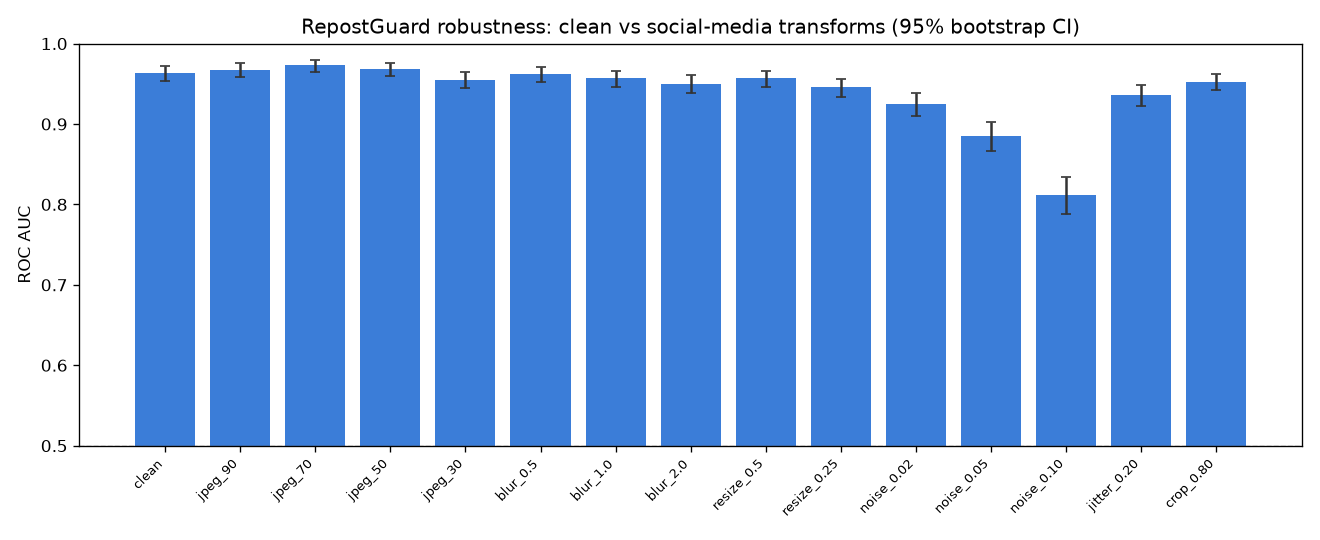
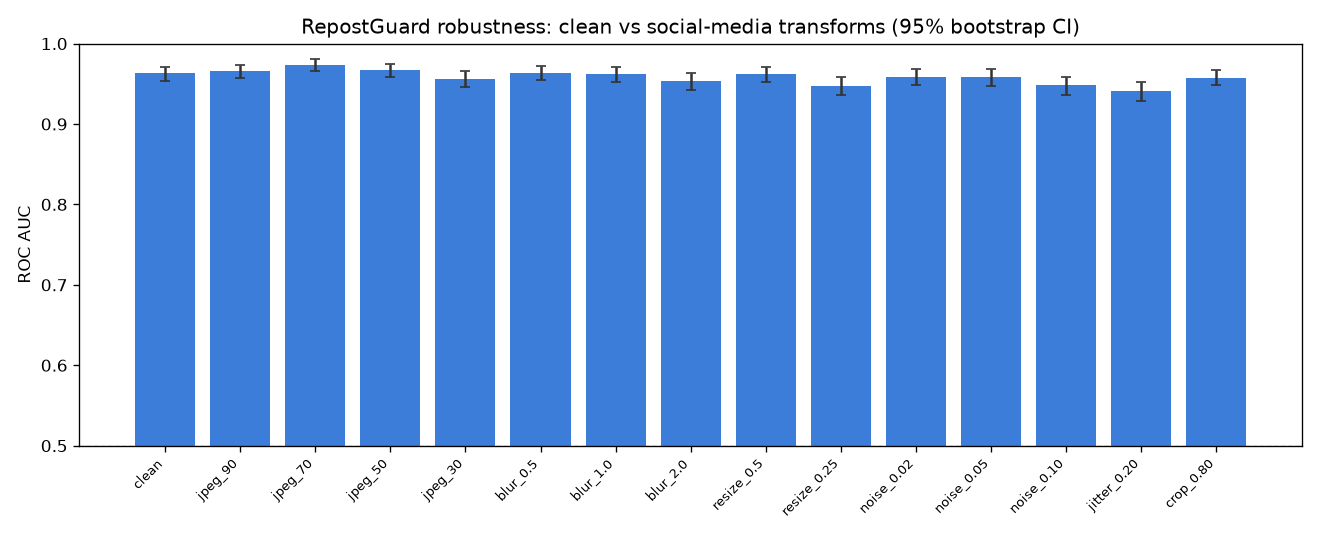
Promote the noise-augmented head; regenerate every deliverable from it
Refit at the shipped weights path with the extra noise training view, then
re-scored the full 15-transform table, the error-analysis note, the demo
benchmark and the chart from that one head, so infer.py, WEIGHTS.txt and every
reported number come from the same model.

Robustness, same held-out 1400-image test slice, vs results/baseline/:

  noise_0.10   0.8117 -> 0.9479   +0.1362   (acc 0.6529 -> 0.8829)
  noise_0.05   0.8851 -> 0.9584   +0.0733
  noise_0.02   0.9244 -> 0.9585   +0.0341
  clean        0.9634 -> 0.9629   -0.0005

Those three are the only rows whose bootstrap CIs move apart, and they all move
up; nothing regressed beyond overlapping CIs. Worst transform overall went
0.8117 -> 0.9411, mean transformed AUC +0.0194, and the clean cost is inside
noise. results/ab_summary.csv has the per-transform deltas.

Error analysis is honest about the trade: FPR@95%TPR rises 0.169 -> 0.190 clean,
while JPEG-30 now flips 42 authentic images into false positives instead of 53.

The demo benchmark is NOT a matched A/B -- the shipped head was scored on 1000
images and the baseline snapshot on 2000 -- and the README says so rather than
inviting the comparison.

Verified: 35 passed / 2 skipped, and infer.py --input_dir samples round-trips.

diff --git a/README.md b/README.md
@@ -69,23 +69,23 @@ Clean vs each Track-5 transform on the held-out validation **test** slice (calib
 <!-- ROBUSTNESS_TABLE -->
 | Transform | n | Accuracy | ROC AUC | 95% CI |
 |---|---:|---:|---:|---|
-| `clean` | 1400 | 0.9021 | 0.9634 | [0.9540, 0.9719] |
-| `jpeg_90` | 1400 | 0.9093 | 0.9674 | [0.9587, 0.9755] |
-| `jpeg_70` | 1400 | 0.9157 | 0.9728 | [0.9649, 0.9796] |
-| `jpeg_50` | 1400 | 0.9107 | 0.9682 | [0.9597, 0.9758] |
-| `jpeg_30` | 1400 | 0.8764 | 0.9547 | [0.9446, 0.9642] |
-| `blur_0.5` | 1400 | 0.8986 | 0.9618 | [0.9523, 0.9706] |
-| `blur_1.0` | 1400 | 0.8629 | 0.9567 | [0.9464, 0.9660] |
-| `blur_2.0` | 1400 | 0.8707 | 0.9500 | [0.9388, 0.9605] |
-| `resize_0.5` | 1400 | 0.8650 | 0.9567 | [0.9464, 0.9662] |
-| `resize_0.25` | 1400 | 0.8679 | 0.9455 | [0.9338, 0.9564] |
-| `noise_0.02` | 1400 | 0.8714 | 0.9244 | [0.9095, 0.9381] |
-| `noise_0.05` | 1400 | 0.8164 | 0.8851 | [0.8669, 0.9025] |
-| `noise_0.10` | 1400 | 0.6529 | 0.8117 | [0.7879, 0.8339] |
-| `jitter_0.20` | 1400 | 0.8714 | 0.9362 | [0.9230, 0.9483] |
-| `crop_0.80` | 1400 | 0.8850 | 0.9521 | [0.9418, 0.9620] |
+| `clean` | 1400 | 0.9007 | 0.9629 | [0.9534, 0.9714] |
+| `jpeg_90` | 1400 | 0.9107 | 0.9658 | [0.9569, 0.9740] |
+| `jpeg_70` | 1400 | 0.9186 | 0.9736 | [0.9658, 0.9806] |
+| `jpeg_50` | 1400 | 0.9079 | 0.9667 | [0.9580, 0.9747] |
+| `jpeg_30` | 1400 | 0.8843 | 0.9557 | [0.9459, 0.9655] |
+| `blur_0.5` | 1400 | 0.8979 | 0.9638 | [0.9542, 0.9723] |
+| `blur_1.0` | 1400 | 0.8593 | 0.9622 | [0.9526, 0.9708] |
+| `blur_2.0` | 1400 | 0.8793 | 0.9536 | [0.9425, 0.9634] |
+| `resize_0.5` | 1400 | 0.8657 | 0.9621 | [0.9523, 0.9708] |
+| `resize_0.25` | 1400 | 0.8714 | 0.9472 | [0.9355, 0.9579] |
+| `noise_0.02` | 1400 | 0.8943 | 0.9585 | [0.9482, 0.9681] |
+| `noise_0.05` | 1400 | 0.8957 | 0.9584 | [0.9476, 0.9681] |
+| `noise_0.10` | 1400 | 0.8829 | 0.9479 | [0.9362, 0.9587] |
+| `jitter_0.20` | 1400 | 0.8657 | 0.9411 | [0.9292, 0.9522] |
+| `crop_0.80` | 1400 | 0.8921 | 0.9578 | [0.9479, 0.9669] |
 
-**Clean AUC 0.9634; mean AUC across the 14 transformed conditions 0.9388 (-0.0246 vs clean); worst condition `noise_0.10` at 0.8117 (-0.1517 vs clean).** Every row is the same held-out test slice (1400 images, calibration images excluded) re-scored through the shipped inference path after the transform, so clean and transformed numbers are directly comparable.
+**Clean AUC 0.9629; mean AUC across the 14 transformed conditions 0.9582 (-0.0047 vs clean); worst condition `jitter_0.20` at 0.9411 (-0.0218 vs clean).** Every row is the same held-out test slice (1400 images, calibration images excluded) re-scored through the shipped inference path after the transform, so clean and transformed numbers are directly comparable.
 
 ![Robustness: clean vs social-media transforms](results/robustness_chart.png)
 <!-- /ROBUSTNESS_TABLE -->
@@ -105,19 +105,41 @@ folds it into each image's view block (inside the block, not appended — `sourc
 derives CV groups positionally, so appending would split an image across GroupKFold folds
 and leak). Refitting takes about a minute.
 
-Scored on the identical held-out slice, decided before promotion:
+This was the promotion decision, made before regenerating anything. Both heads were
+scored on the same held-out images: clean on the full 1400-image test slice (reported by
+`train.py`), and `noise_0.10` on a balanced 400-image subset of it, chosen so the decision
+probe would return in minutes rather than half an hour.
 
-| | clean AUC | `noise_0.10` AUC | `noise_0.10` 95% CI |
+| | clean AUC (n=1400) | `noise_0.10` AUC (n=400) | `noise_0.10` 95% CI |
 |---|---:|---:|---|
 | 4 views (jpeg/blur/resize) | 0.9634 | 0.8164 | [0.7720, 0.8585] |
 | **5 views (+ noise)** | **0.9629** | **0.9823** | **[0.9696, 0.9925]** |
 
-**+0.166 AUC on the collapsing transform, with non-overlapping confidence intervals, and
-clean AUC unchanged within noise (−0.0005).** Full per-transform deltas against the
-pre-change head (`results/baseline/`):
+**+0.166 AUC on the collapsing transform, with non-overlapping bootstrap CIs, and clean
+AUC unchanged within noise (−0.0005).** The full table below is then the shipped head
+re-scored on all 15 transforms at n=1400; per-transform deltas against the pre-change head
+(`results/baseline/robustness_table.csv`, same slice, same n):
 
 <!-- AB_TABLE -->
-_(not generated yet -- run the pipeline in 'Steps to reproduce results'.)_
+| Transform | baseline AUC | shipped AUC | delta AUC | CIs disjoint |
+|---|---:|---:|---:|---|
+| `clean` | 0.9634 | 0.9629 | -0.0005 | no |
+| `jpeg_90` | 0.9674 | 0.9658 | -0.0016 | no |
+| `jpeg_70` | 0.9728 | 0.9736 | +0.0008 | no |
+| `jpeg_50` | 0.9682 | 0.9667 | -0.0015 | no |
+| `jpeg_30` | 0.9547 | 0.9557 | +0.0010 | no |
+| `blur_0.5` | 0.9618 | 0.9638 | +0.0020 | no |
+| `blur_1.0` | 0.9567 | 0.9622 | +0.0055 | no |
+| `blur_2.0` | 0.9500 | 0.9536 | +0.0036 | no |
+| `resize_0.5` | 0.9567 | 0.9621 | +0.0054 | no |
+| `resize_0.25` | 0.9455 | 0.9472 | +0.0017 | no |
+| `noise_0.02` | 0.9244 | 0.9585 | +0.0341 | yes |
+| `noise_0.05` | 0.8851 | 0.9584 | +0.0733 | yes |
+| `noise_0.10` | 0.8117 | 0.9479 | +0.1362 | yes |
+| `jitter_0.20` | 0.9362 | 0.9411 | +0.0049 | no |
+| `crop_0.80` | 0.9521 | 0.9578 | +0.0057 | no |
+
+3 transform(s) improved beyond overlapping bootstrap CIs; 0 regressed beyond them.
 <!-- /AB_TABLE -->
 
 
@@ -125,15 +147,17 @@ _(not generated yet -- run the pipeline in 'Steps to reproduce results'.)_
 
 The official demonstration subset (`techjam-aigc/wildfake-eval-subset`, `default` config = COCO val2017 reals + DALL·E-3 Advanced fakes) scored through the **shipped** inference path on a balanced subsample. This measures cross-source generalization to a generator family absent from SID-Set training. Full table: `results/demo_benchmark.csv`.
 
+> **Not a matched A/B.** The shipped head was scored on a balanced 1000-image subsample; the pre-change snapshot in `results/baseline/demo_benchmark.csv` used 2000. Treat this section as a cross-source reference benchmark only — the head-to-head evidence is the robustness table above, where both heads were scored on the identical 1400-image slice.
+
 <!-- DEMO_TABLE -->
 | Transform | n | Accuracy | ROC AUC | 95% CI |
 |---|---:|---:|---:|---|
-| `clean` | 2000 | 0.8530 | 0.9187 | [0.9061, 0.9302] |
-| `jpeg_30` | 2000 | 0.8185 | 0.9133 | [0.9012, 0.9247] |
-| `resize_0.25` | 2000 | 0.7165 | 0.7925 | [0.7721, 0.8122] |
-| `noise_0.05` | 2000 | 0.7260 | 0.8532 | [0.8360, 0.8690] |
+| `clean` | 1000 | 0.8630 | 0.9372 | [0.9212, 0.9518] |
+| `jpeg_30` | 1000 | 0.8100 | 0.9292 | [0.9139, 0.9440] |
+| `resize_0.25` | 1000 | 0.6820 | 0.7700 | [0.7390, 0.7994] |
+| `noise_0.05` | 1000 | 0.8550 | 0.9294 | [0.9132, 0.9448] |
 
-**Cross-source clean AUC 0.9187 on 2000 balanced images from a generator family (DALL-E-3) absent from SID-Set training** -- an out-of-distribution check, not a tuning target.
+**Cross-source clean AUC 0.9372 on 1000 balanced images from a generator family (DALL-E-3) absent from SID-Set training** -- an out-of-distribution check, not a tuning target.
 <!-- /DEMO_TABLE -->
 
 ## Error analysis note
@@ -144,9 +168,9 @@ Representative false positives (authentic images flagged AIGC — creator harm),
 On the held-out test slice (1400 images: 720 real, 680 AIGC) at the shipped 0.5 threshold:
 
 - **False positives** (authentic flagged AIGC -- direct creator harm): 93/720 = **12.92% FPR**.
-- **False negatives** (generated images missed): 44/680 = **6.47% FNR**.
-- **FPR@95%TPR**: 16.94% clean, 21.81% after JPEG-30 -- the price in flagged authentic images if the product insisted on catching 95% of AIGC.
-- **JPEG-30 score drift**: real +0.0314, AIGC +0.0055 mean change in P(AIGC); 53 real images flip into false positives and 16 AIGC images flip into false negatives. AUC 0.9634 clean vs 0.9547 after JPEG-30.
+- **False negatives** (generated images missed): 46/680 = **6.76% FNR**.
+- **FPR@95%TPR**: 19.03% clean, 22.50% after JPEG-30 -- the price in flagged authentic images if the product insisted on catching 95% of AIGC.
+- **JPEG-30 score drift**: real +0.0074, AIGC -0.0019 mean change in P(AIGC); 42 real images flip into false positives and 17 AIGC images flip into false negatives. AUC 0.9629 clean vs 0.9557 after JPEG-30.
 
 The `k` highest-scoring FPs and lowest-scoring FNs, with their per-image clean and JPEG-30 scores, are in `results/error_analysis.json`.
 <!-- /ERROR_ANALYSIS -->
@@ -171,6 +195,7 @@ The `k` highest-scoring FPs and lowest-scoring FNs, with their per-image clean a
 - **Remaining untrained families.** `jitter` and `crop` are still scored but not training views. Their feature caches are already extracted (`scripts/extract_extra_view.py --family jitter|crop`); we ran out of clock to evaluate that candidate, so we shipped the one variant we could verify end-to-end rather than an unmeasured one.
 - **Hardest rows.** Extreme 0.25× thumbnails remain the weakest transform; a small learned frequency head or a second forensic scale could help.
 - **Local edits / face swaps** are only partially covered (tampered class upweight); a dedicated localization branch is out of scope here.
+- **Batched inference.** `embed_for_score` scores one image per CLIP forward, so the only way to use all cores is to shard across processes -- and each process holds its own ~1.4 GB copy of CLIP. On a 16 GB box that caps us at ~5 workers (10 died with `MemoryError`). Batching N images per forward would need one model copy and beat all five shards; we kept the one-image path because it is the single code path shared by train/eval/infer, which is what guarantees cached features and live scores are byte-identical.
 - **Scale.** We trained on a 2000/class subset for the deadline; `configs/default.yaml` targets 8000/class on a CUDA box (see below).
 - **False positives on heavily filtered real photos** hurt creators; a per-creator threshold or an abstain band would reduce that harm.
 
